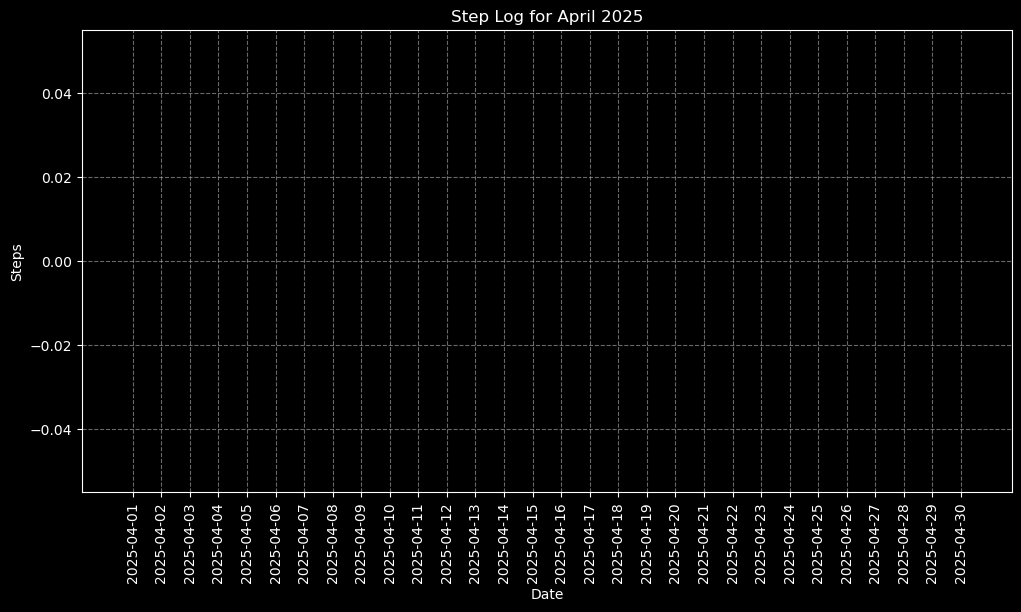
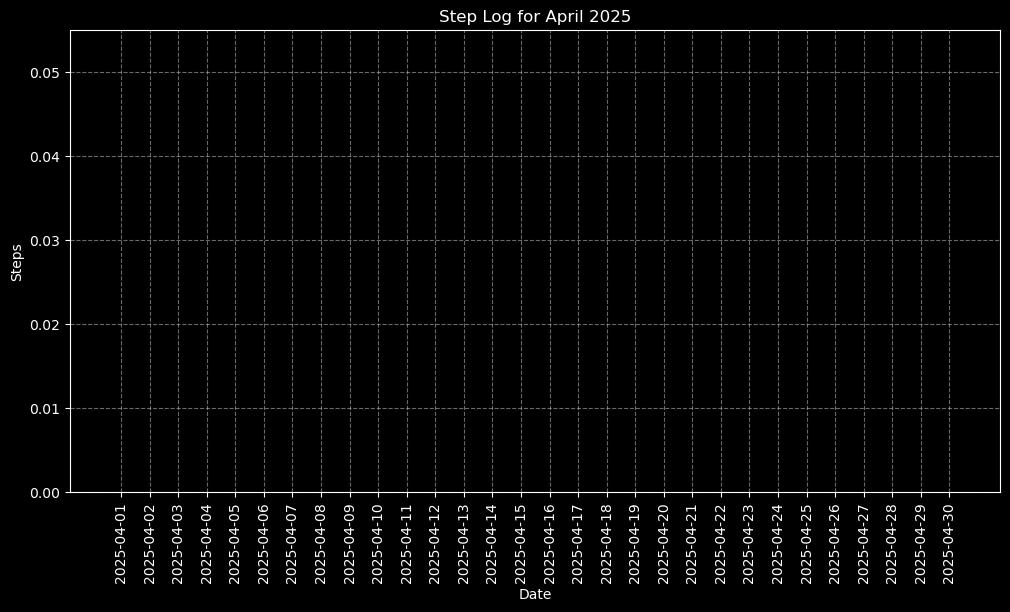
graph stuff

diff --git a/frontend/style.css b/frontend/style.css
@@ -53,7 +53,7 @@
 
 /* Dropdown container */
 .dropdown {
-    position: relative;
+   position: relative;
 }
 
 /* Dropdown button */
@@ -109,7 +109,7 @@ body {
 .container {
   width: 60%; /* Reduced the width of the container */
   margin: 50px auto; /* Centers the container and adds top margin */
-  background-color: #fff;
+  background-color: #eeedf8;
   padding: 20px;
   border-radius: 10px; /* Rounded corners for a modern look */
   box-shadow: 0px 4px 6px rgba(0, 0, 0, 0.1); /* Subtle shadow for depth */

diff --git a/mc_basic_code/mc_stepGraph.py b/mc_basic_code/mc_stepGraph.py
@@ -81,6 +81,7 @@ all_dates = [date.strftime("%Y-%m-%d") for date in all_dates_dt]  # Convert back
 
 # Set all dates as x-ticks in the correct order
 plt.xticks(all_dates, rotation=90)
+plt.ylim(bottom=0)  # Ensure y-axis starts from 0 for better visualization
 
 plt.xlabel("Date")
 plt.ylabel("Steps")
